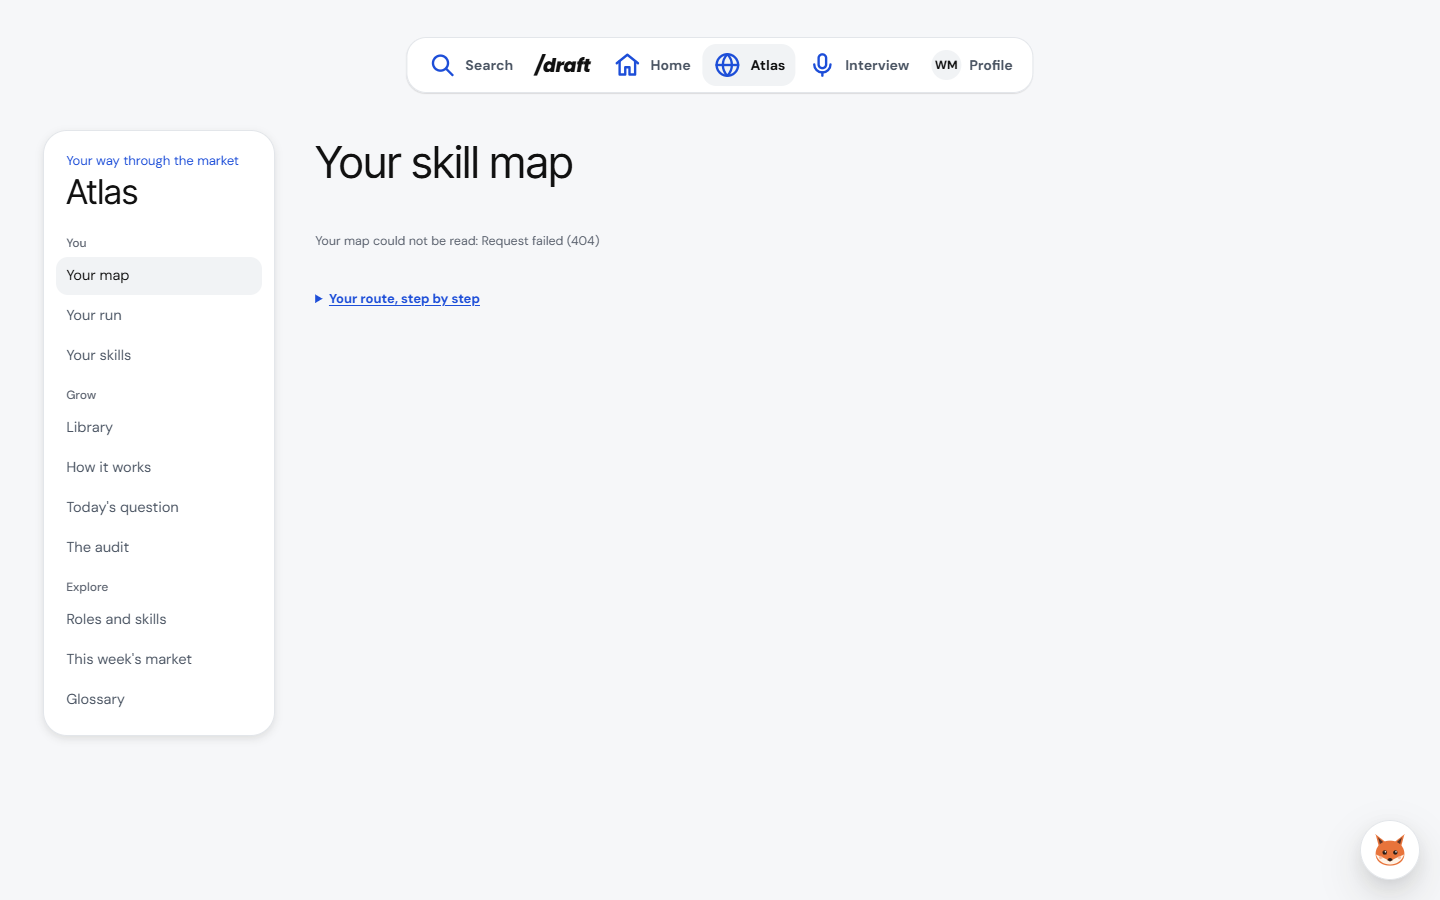
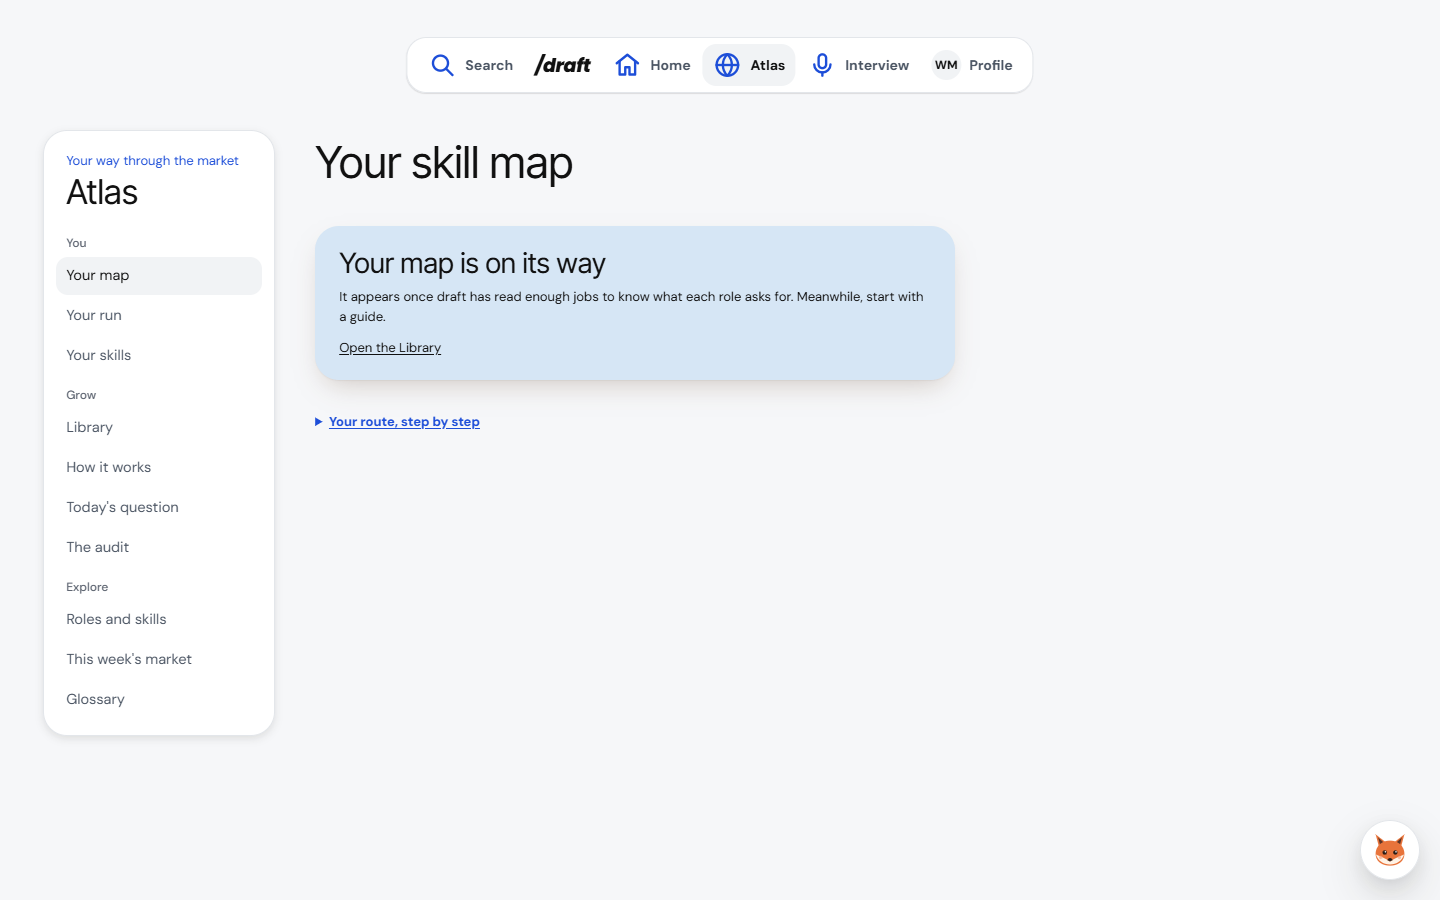
46u: Your map's no-map state is a note card, not a raw 404
46u: Your map's no-map state — a note card, never a raw "Request failed (404)"

Your map became Atlas's first screen (bd96edb9), and the browser tier's d163OtherScreens caught what the walk had not:
with no map to draw, the page showed 'Your map could not be read: Request failed (404)' (the server's 404, reason
no_roles: no role read from the board's jobs; unknown_role for a bad ?role=), and an answer without a role (the
fidelity fixture's {}) threw on m.role.slug. Now SkillMapEmpty, the A233 C treatment (a pastel note card, a serif
title, one line, the way on): 'Your map is on its way' → the Library, or 'That role isn't on the map' → back to your
role. On production a person with no résumé still gets the full map (everything to learn); no_roles needs an empty
board. The walk now fails on 'could not be read' and needs the map or the note.

Verified: walk46u 11 / 11 (Plain Light, the note shot); d163OtherScreens + a228SkillMap(Page) + a93 + colour + D60
42 / 42.

Changed region(s): [[0.2188, 0.2489, 0.6875, 0.4356], [0.2188, 0.4667, 0.3438, 0.4978]]

diff --git a/client/src/pages/atlas/SkillMap.jsx b/client/src/pages/atlas/SkillMap.jsx
@@ -165,6 +165,21 @@ function MovePanel({ m, onRole, onAim, aiming }) {
   );
 }
 
+/** ⭐ 46u · no map to draw: no role is read from the board's jobs yet (no_roles), or the asked role isn't one (unknown_role). */
+export function SkillMapEmpty({ base = "/app/atlas", reason = "no_roles", onBack = null }) {
+  const unknown = reason === "unknown_role";
+  return (
+    <div className="skm-empty" data-skm-empty={reason}>
+      <p className="skm-empty__t">{unknown ? "That role isn't on the map" : "Your map is on its way"}</p>
+      <p className="skm-empty__s">{unknown ? "Pick another role, or go back to the one you're aiming for." : "It appears once draft has read enough jobs to know what each role asks for. Meanwhile, start with a guide."}</p>
+      <p className="skm-empty__acts">
+        {unknown && onBack ? <DepthButton primary onClick={onBack}>Back to your role</DepthButton>
+          : <Link to={`${base}/library`} className="atl__link">Open the Library</Link>}
+      </p>
+    </div>
+  );
+}
+
 /** The page drawn from GET /api/atlas/skill-map's answer — pure apart from its callbacks (tests render it). */
 export function SkillMapView({ m, base = "/app/atlas", view = "map", setView = () => {}, onRole = () => {}, onAim = () => {}, aiming = false }) {
   return (
@@ -191,10 +206,12 @@ export default function SkillMap({ base = "/app/atlas", signedIn = true }) {
     setState(s => ({ status: "loading", m: s.m }));
     api(`/api/atlas/skill-map${role ? `?role=${encodeURIComponent(role)}` : ""}`)
       .then(m => live && setState({ status: "done", m }))
-      .catch(e => live && setState({ status: "error", m: null, error: e.message }));
+      .catch(e => live && setState({ status: "error", m: null, error: e.message, reason: e.status === 404 ? (e.payload?.reason || "no_roles") : null }));
     return () => { live = false; };
   }, [role, signedIn, n]);
   if (!signedIn) return <p className="atl__quiet" data-skm-sign-in="">Sign in with a résumé to see how many jobs you can apply for today. <Link to={loginHref()} className="atl__link">Sign in</Link></p>;
+  // ⭐ 46u: Your map is Atlas's first screen now — "no map yet" is a page of its own, never a raw "Request failed (404)".
+  if (state.reason || (state.m && !state.m.role)) return <SkillMapEmpty base={base} reason={state.reason || "no_roles"} onBack={role ? () => setRole(null) : null} />;
   if (!state.m) return <p className="atl__quiet" role="status">{state.status === "error" ? `Your map could not be read: ${state.error}` : "Opening…"}</p>;
   // "Aim for this" sets the aim through the navigator's own endpoint (D143), and the map follows it.
   const onAim = async (slug) => {

diff --git a/client/src/pages/atlas/SkillMap.css b/client/src/pages/atlas/SkillMap.css
@@ -109,3 +109,10 @@
 
 /* "Your route, step by step" — the track board and the route, below the page, closed */
 .skm-route-more > summary { cursor: pointer; }
+
+/* 46u · no map yet (SkillMapEmpty): a note card — the serif title, one line, the way on. */
+.skm-empty { display: grid; gap: 8px; padding: 22px 24px; border-radius: 24px; background: var(--c-pastel-2); color: var(--c-ink); box-shadow: var(--c-shadow-glass);
+  max-width: 640px; --c-ink-muted: var(--c-ink); --c-accent-ink: var(--c-ink); }
+.skm-empty__t { margin: 0; font: 400 28px/1.1 var(--font-display); text-wrap: balance; }
+.skm-empty__s { margin: 0; }
+.skm-empty__acts { margin: 4px 0 0; }
